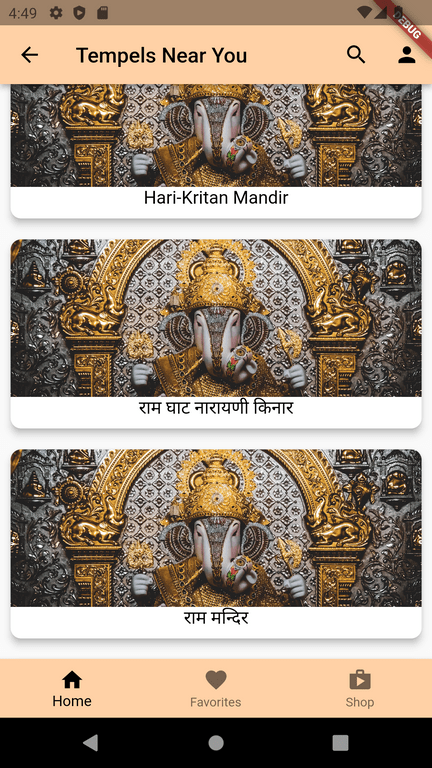
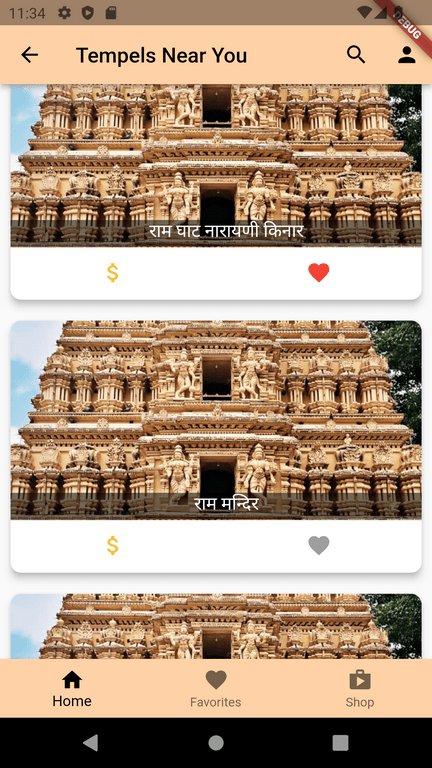
Reamdme

diff --git a/README.md b/README.md
@@ -22,7 +22,9 @@ Homepage of this app looks like this:
 Here the page starts with the daily quote from hindu holy books like gita. After that is grid view of Custom Card Buttons, whose purpose is to send user to relevant subpages on click.
 
 ## Temples List
-Usually you should create a marketing teams to promote assoiciations to add their temples in our app. BUt for the sake of app, I am using google Places API for find nearby temples upto 20 in numbers. Then storing those temples in firestore. Also, places API doesn't provide images, it is provided by places details api which I am not using. Hence, a random Image URL from the firebase storage is pulled to be saved as image for those temples. The subpage temple-list-screen looks as follows. 
+Usually you should create a marketing teams to promote assoiciations to add their temples in our app. BUt for the sake of app, I am using google Places API for find nearby temples upto 20 in numbers. Then storing those temples in firestore. Also, places API doesn't provide images, it is provided by places details api which I am not using. Hence, a random Image URL from the firebase storage is pulled to be saved as image for those temples. The templelist also has donate & favorite icons. Among them favorite icon functionality has been added.
+
+ The subpage temple-list-screen looks as follows. 
 
 ![Temple List Scren](assets/screenshots/temple_list_scrn_shot.png)
 
